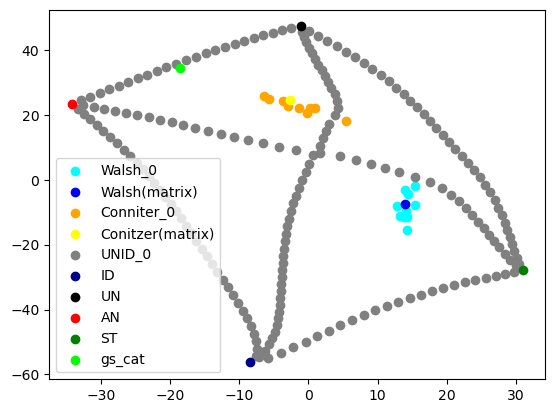
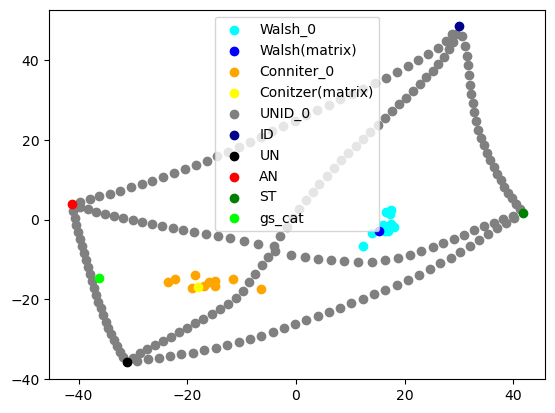
importing matrices

diff --git a/mapel/voting/objects/Experiment.py b/mapel/voting/objects/Experiment.py
@@ -13,7 +13,7 @@ from .Family import Family
 class Experiment:
     """Abstract set of elections."""
 
-    def __init__(self, experiment_id, ignore=None, raw=False, distance_name='emd-positionwise'):
+    def __init__(self, experiment_id, ignore=None, with_elections=False, with_matrices=False, distance_name='emd-positionwise'):
 
         self.experiment_id = experiment_id
 
@@ -21,10 +21,11 @@ class Experiment:
 
         self.families = self.import_controllers(ignore=ignore)
 
-        if not raw:
-            self.elections = self.add_elections_to_experiment()
+        if with_elections:
+            self.elections = self.add_elections_to_experiment(with_matrices=with_matrices)
 
-    def add_elections_to_experiment(self):
+
+    def add_elections_to_experiment(self, with_matrices=False):
         """ Import elections from a file """
 
         elections = {}
@@ -32,10 +33,39 @@ class Experiment:
         for family_id in self.families:
             for j in range(self.families[family_id].size):
                 election_id = family_id + '_' + str(j)
-                election = Election(self.experiment_id, election_id)
+                election = Election(self.experiment_id, election_id, with_matrix=with_matrices)
                 elections[election_id] = election
 
         return elections
+
+    # def add_matrices_to_experiment(self):
+    #     """ Import elections from a file """
+    #
+    #     matrices = {}
+    #     vectors = {}
+    #
+    #     for family_id in self.families:
+    #         for j in range(self.families[family_id].size):
+    #             election_id = family_id + '_' + str(j)
+    #             matrix = self.import_matrix(election_id)
+    #             matrices[election_id] = matrix
+    #             vectors[election_id] = matrix.transpose()
+    #
+    #     return matrices, vectors
+
+    # def import_matrix(self, election_id):
+    #
+    #     file_name = election_id + '.csv'
+    #     path = os.path.join(os.getcwd(), "experiments", self.experiment_id, 'matrices', file_name)
+    #     num_candidates = self.elections[election_id].num_candidates
+    #     matrix = np.zeros([num_candidates, num_candidates])
+    #
+    #     with open(path, 'r', newline='') as csv_file:
+    #         reader = csv.DictReader(csv_file, delimiter=',')
+    #         for i, row in enumerate(reader):
+    #             for j, candidate_id in enumerate(row):
+    #                 matrix[i][j] = row[candidate_id]
+    #     return matrix
 
     def import_controllers(self, ignore=None):
         """ Import controllers from a file """
@@ -155,9 +185,9 @@ class Experiment:
 class Experiment_xD(Experiment):
     """ Multi-dimensional map of elections """
 
-    def __init__(self, experiment_id, distance_name='positionwise', raw=False, self_distances=False):
+    def __init__(self, experiment_id, distance_name='positionwise', self_distances=False):
 
-        Experiment.__init__(self, experiment_id, distance_name='emd-positionwise', raw=raw)
+        Experiment.__init__(self, experiment_id, distance_name='emd-positionwise', with_elections=True, with_matrices=True)
 
         #self.num_points, self.num_distances, self.distances = self.import_distances(experiment_id)
         self.num_distances, self.distances, self.std = self.import_distances(experiment_id,

diff --git a/mapel/voting/_metrics.py b/mapel/voting/_metrics.py
@@ -57,7 +57,53 @@ def single_thread(experiment, distances, thread_ids, t):
     print("thread " + str(t) + " is ready :)")
 
 
-def compute_distances(experiment_id, distance_name='emd-positionwise',
+def compute_distances(experiment_id, distance_name='emd-positionwise', num_threads=1):
+    """ Compute distances between elections (using threads)"""
+
+    experiment = Experiment(experiment_id, distance_name=distance_name, with_elections=True, with_matrices=True)
+    distances = {}
+    for election_id in experiment.elections:
+        distances[election_id] = {}
+
+    threads = [{} for _ in range(num_threads)]
+
+    ids = []
+    for i, election_1 in enumerate(experiment.elections):
+        for j, election_2 in enumerate(experiment.elections):
+            if i < j:
+                ids.append((election_1, election_2))
+
+    num_distances = len(ids)
+
+    for t in range(num_threads):
+        print('thread: ', t)
+        sleep(0.1)
+        start = int(t * num_distances / num_threads)
+        stop = int((t + 1) * num_distances / num_threads)
+        thread_ids = ids[start:stop]
+
+        threads[t] = Thread(target=single_thread, args=(experiment, distances, thread_ids, t))
+        threads[t].start()
+
+    for t in range(num_threads):
+        threads[t].join()
+
+    path = os.path.join(os.getcwd(), "experiments", experiment_id, "distances",
+                        str(distance_name) + ".csv")
+
+    with open(path, 'w', newline='') as csv_file:
+        writer = csv.writer(csv_file, delimiter=',')
+        writer.writerow(["election_id_1", "election_id_2", "distance"])
+
+        for i, election_1 in enumerate(experiment.elections):
+            for j, election_2 in enumerate(experiment.elections):
+                if i < j:
+                    distance = str(distances[election_1][election_2])
+                    writer.writerow([election_1, election_2, distance])
+
+
+# NEEDS UPDATE #
+def extend_distances(experiment_id, distance_name='emd-positionwise',
                       num_threads=1, starting_from=0, ending_at=10000):
     """ Compute distance using threads"""
 

diff --git a/mapel/voting/objects/Election.py b/mapel/voting/objects/Election.py
@@ -16,10 +16,11 @@ from mapel.voting.glossary import LIST_OF_FAKE_MODELS
 
 class Election:
 
-    def __init__(self, experiment_id, election_id, votes=None):
+    def __init__(self, experiment_id, election_id, votes=None, with_matrix=False):
 
         self.experiment_id = experiment_id
         self.election_id = election_id
+
 
         if votes is not None:
             if str(votes[0]) in LIST_OF_FAKE_MODELS:
@@ -47,6 +48,26 @@ class Election:
 
                 self.potes = self.votes_to_potes()
 
+        if with_matrix:
+            self.matrix = self.import_matrix()
+            self.vectors = self.matrix.transpose()
+        else:
+            self.matrix = None
+            self.vectors = None
+
+    def import_matrix(self):
+
+        file_name = self.election_id + '.csv'
+        path = os.path.join(os.getcwd(), "experiments", self.experiment_id, 'matrices', file_name)
+        matrix = np.zeros([self.num_candidates, self.num_candidates])
+
+        with open(path, 'r', newline='') as csv_file:
+            reader = csv.DictReader(csv_file, delimiter=',')
+            for i, row in enumerate(reader):
+                for j, candidate_id in enumerate(row):
+                    matrix[i][j] = row[candidate_id]
+        return matrix
+
     def votes_to_potes(self):
         """ Prepare positional votes """
         potes = np.zeros([self.num_voters, self.num_candidates])
@@ -55,6 +76,11 @@ class Election:
                 potes[i][self.votes[i][j]] = j
         return potes
 
+    def get_vectors(self):
+        if self.vectors is not None:
+            return self.vectors
+        else:
+            return self.votes_to_positionwise_vectors()
 
     def votes_to_positionwise_vectors(self):
 
@@ -93,6 +119,10 @@ class Election:
             #     vectors = [*zip(*vectors)]
 
         # return matrix.transpose()
+
+        self.vectors = vectors
+        self.matrix = self.vectors.transpose()
+
         return vectors
 
     def votes_to_positionwise_matrix(self):

diff --git a/mapel/voting/matrices.py b/mapel/voting/matrices.py
@@ -17,7 +17,7 @@ import csv
 
 def prepare_matrices(experiment_id):
     """ compute positionwise matrices and store them in the /matrices folder """
-    experiment = Experiment(experiment_id)
+    experiment = Experiment(experiment_id, with_elections=True)
 
     path = os.path.join(os.getcwd(), "experiments", experiment_id, "matrices")
     for file_name in os.listdir(path):
@@ -25,10 +25,15 @@ def prepare_matrices(experiment_id):
 
     for election_id in experiment.elections:
         matrix = experiment.elections[election_id].votes_to_positionwise_matrix()
+        file_name = election_id + ".csv"
         path = os.path.join(os.getcwd(), "experiments", experiment_id,
-                            "matrices", str(election_id) + ".csv")
+                            "matrices", file_name)
+
         with open(path, 'w', newline='') as csv_file:
+
             writer = csv.writer(csv_file, delimiter=',')
+            header = [str(i) for i in range(experiment.elections[election_id].num_candidates)]
+            writer.writerow(header)
             for row in matrix:
                 writer.writerow(row)
 

diff --git a/mapel/voting/print.py b/mapel/voting/print.py
@@ -430,7 +430,7 @@ def saveas_tex(saveas=None):
 
 # MAIN FUNCTIONS
 def print_2d(experiment_id, mask=False, mixed=False, fuzzy_paths=True, xlabel=None,
-             angle=0, reverse=False, update=False, values=None, attraction_factor=1,
+             angle=0, reverse=False, update=False, values=None, attraction_factor=1, axis=True,
              distance_name="emd-positionwise", guardians=False, tmp2=[1, 1, 1], zorder=[1, 1, 1], ticks=None, title=None,
              saveas="map_2d", show=True, ms=20, normalizing_func=None, xticklabels=None, cmap=None,
              ignore=None, marker_func=None, tex=False, black=False, legend=True, levels=False, tmp=False):
@@ -458,7 +458,9 @@ def print_2d(experiment_id, mask=False, mixed=False, fuzzy_paths=True, xlabel=No
     #import matplotlib.gridspec as gridspec
     #gs = gridspec.GridSpec(2, 1, height_ratios=[10, 1])
     ax = fig.add_subplot()
-    plt.axis('off')
+
+    if not axis:
+        plt.axis('off')
 
     if values is not None:
         add_advanced_points_to_picture(fig=fig, ax=ax, experiment=experiment, experiment_id=experiment_id, values=values,

diff --git a/mapel/voting/elections/group_separable.py b/mapel/voting/elections/group_separable.py
@@ -32,8 +32,8 @@ def generate_group_separable_election(num_voters=None, num_candidates=None, para
         func = lambda m, n, j: binom(m - 1, j) * binom(m - 1 + j, m) * (2 ** (n - 1) - 1) ** (j - 1)
         buckets = [func(m, n, j) for j in range(1, m)]
 
-        denoimnator = sum(buckets)
-        buckets = [buckets[i]/denoimnator for i in range(len(buckets))]
+        denominator = sum(buckets)
+        buckets = [buckets[i]/denominator for i in range(len(buckets))]
 
         r = np.random.choice(len(buckets), 1, p=buckets)[0]
 
@@ -340,3 +340,4 @@ def get_gs_caterpillar_vectors(num_candidates):
 # 10votes = generate_group_separable_election(num_voters=10, num_candidates=14)
 # print(votes)
 
+# generate_group_separable_election(num_voters=100,num_candidates=40)

diff --git a/mapel/voting/features.py b/mapel/voting/features.py
@@ -35,9 +35,9 @@ def compute_feature(experiment_id, name=None):
         value = statistic(election)
         values.append(value)
 
-    file_name = os.path.join(os.getcwd(), "experiments", experiment_id, "controllers", "advanced", str(name) + '.txt')
+    path = os.path.join(os.getcwd(), "experiments", experiment_id, "controllers", "advanced", str(name) + '.txt')
 
-    file_scores = open(file_name, 'w')
+    file_scores = open(path, 'w')
     for i in range(experiment.num_elections):
         file_scores.write(str(values[i]) + "\n")
     file_scores.close()
@@ -56,7 +56,6 @@ def borda_std(election):
     return std
 
 
-# def separation_2(election):
 # def separation_2(election):
 #
 #     if election.fake:

diff --git a/mapel/voting/metrics/main_distances.py b/mapel/voting/metrics/main_distances.py
@@ -94,8 +94,8 @@ def compute_candidate_subelection(election_1, election_2):
 ### HELPER FUNCTIONS ###
 def get_matching_cost_positionwise(ele_1, ele_2, inner_distance):
     """ Get matching cost for positionwise distances """
-    vectors_1 = ele_1.votes_to_positionwise_vectors()
-    vectors_2 = ele_2.votes_to_positionwise_vectors()
+    vectors_1 = ele_1.get_vectors()
+    vectors_2 = ele_2.get_vectors()
     size = ele_1.num_candidates
     cost_table = [[inner_distance(list(vectors_1[i]), list(vectors_2[j]), size) for i in range(size)] for j in range(size)]
     return cost_table

diff --git a/mapel/voting/_elections.py b/mapel/voting/_elections.py
@@ -106,7 +106,7 @@ def generate_votes(election_model=None, num_candidates=None, num_voters=None, pa
 
 def prepare_elections(experiment_id):
     """ Prepare elections for a given experiment """
-    experiment = Experiment(experiment_id, raw=True)
+    experiment = Experiment(experiment_id)
 
     path = os.path.join(os.getcwd(), "experiments", experiment_id, "elections")
     for file_name in os.listdir(path):

diff --git a/mapel/voting/development.py b/mapel/voting/development.py
@@ -19,8 +19,6 @@ from .objects.Election import Election
 from .metrics.inner_distances import l2
 
 
-
-
 def create_structure(experiment_id):
 
     # PREPARE STRUCTURE
